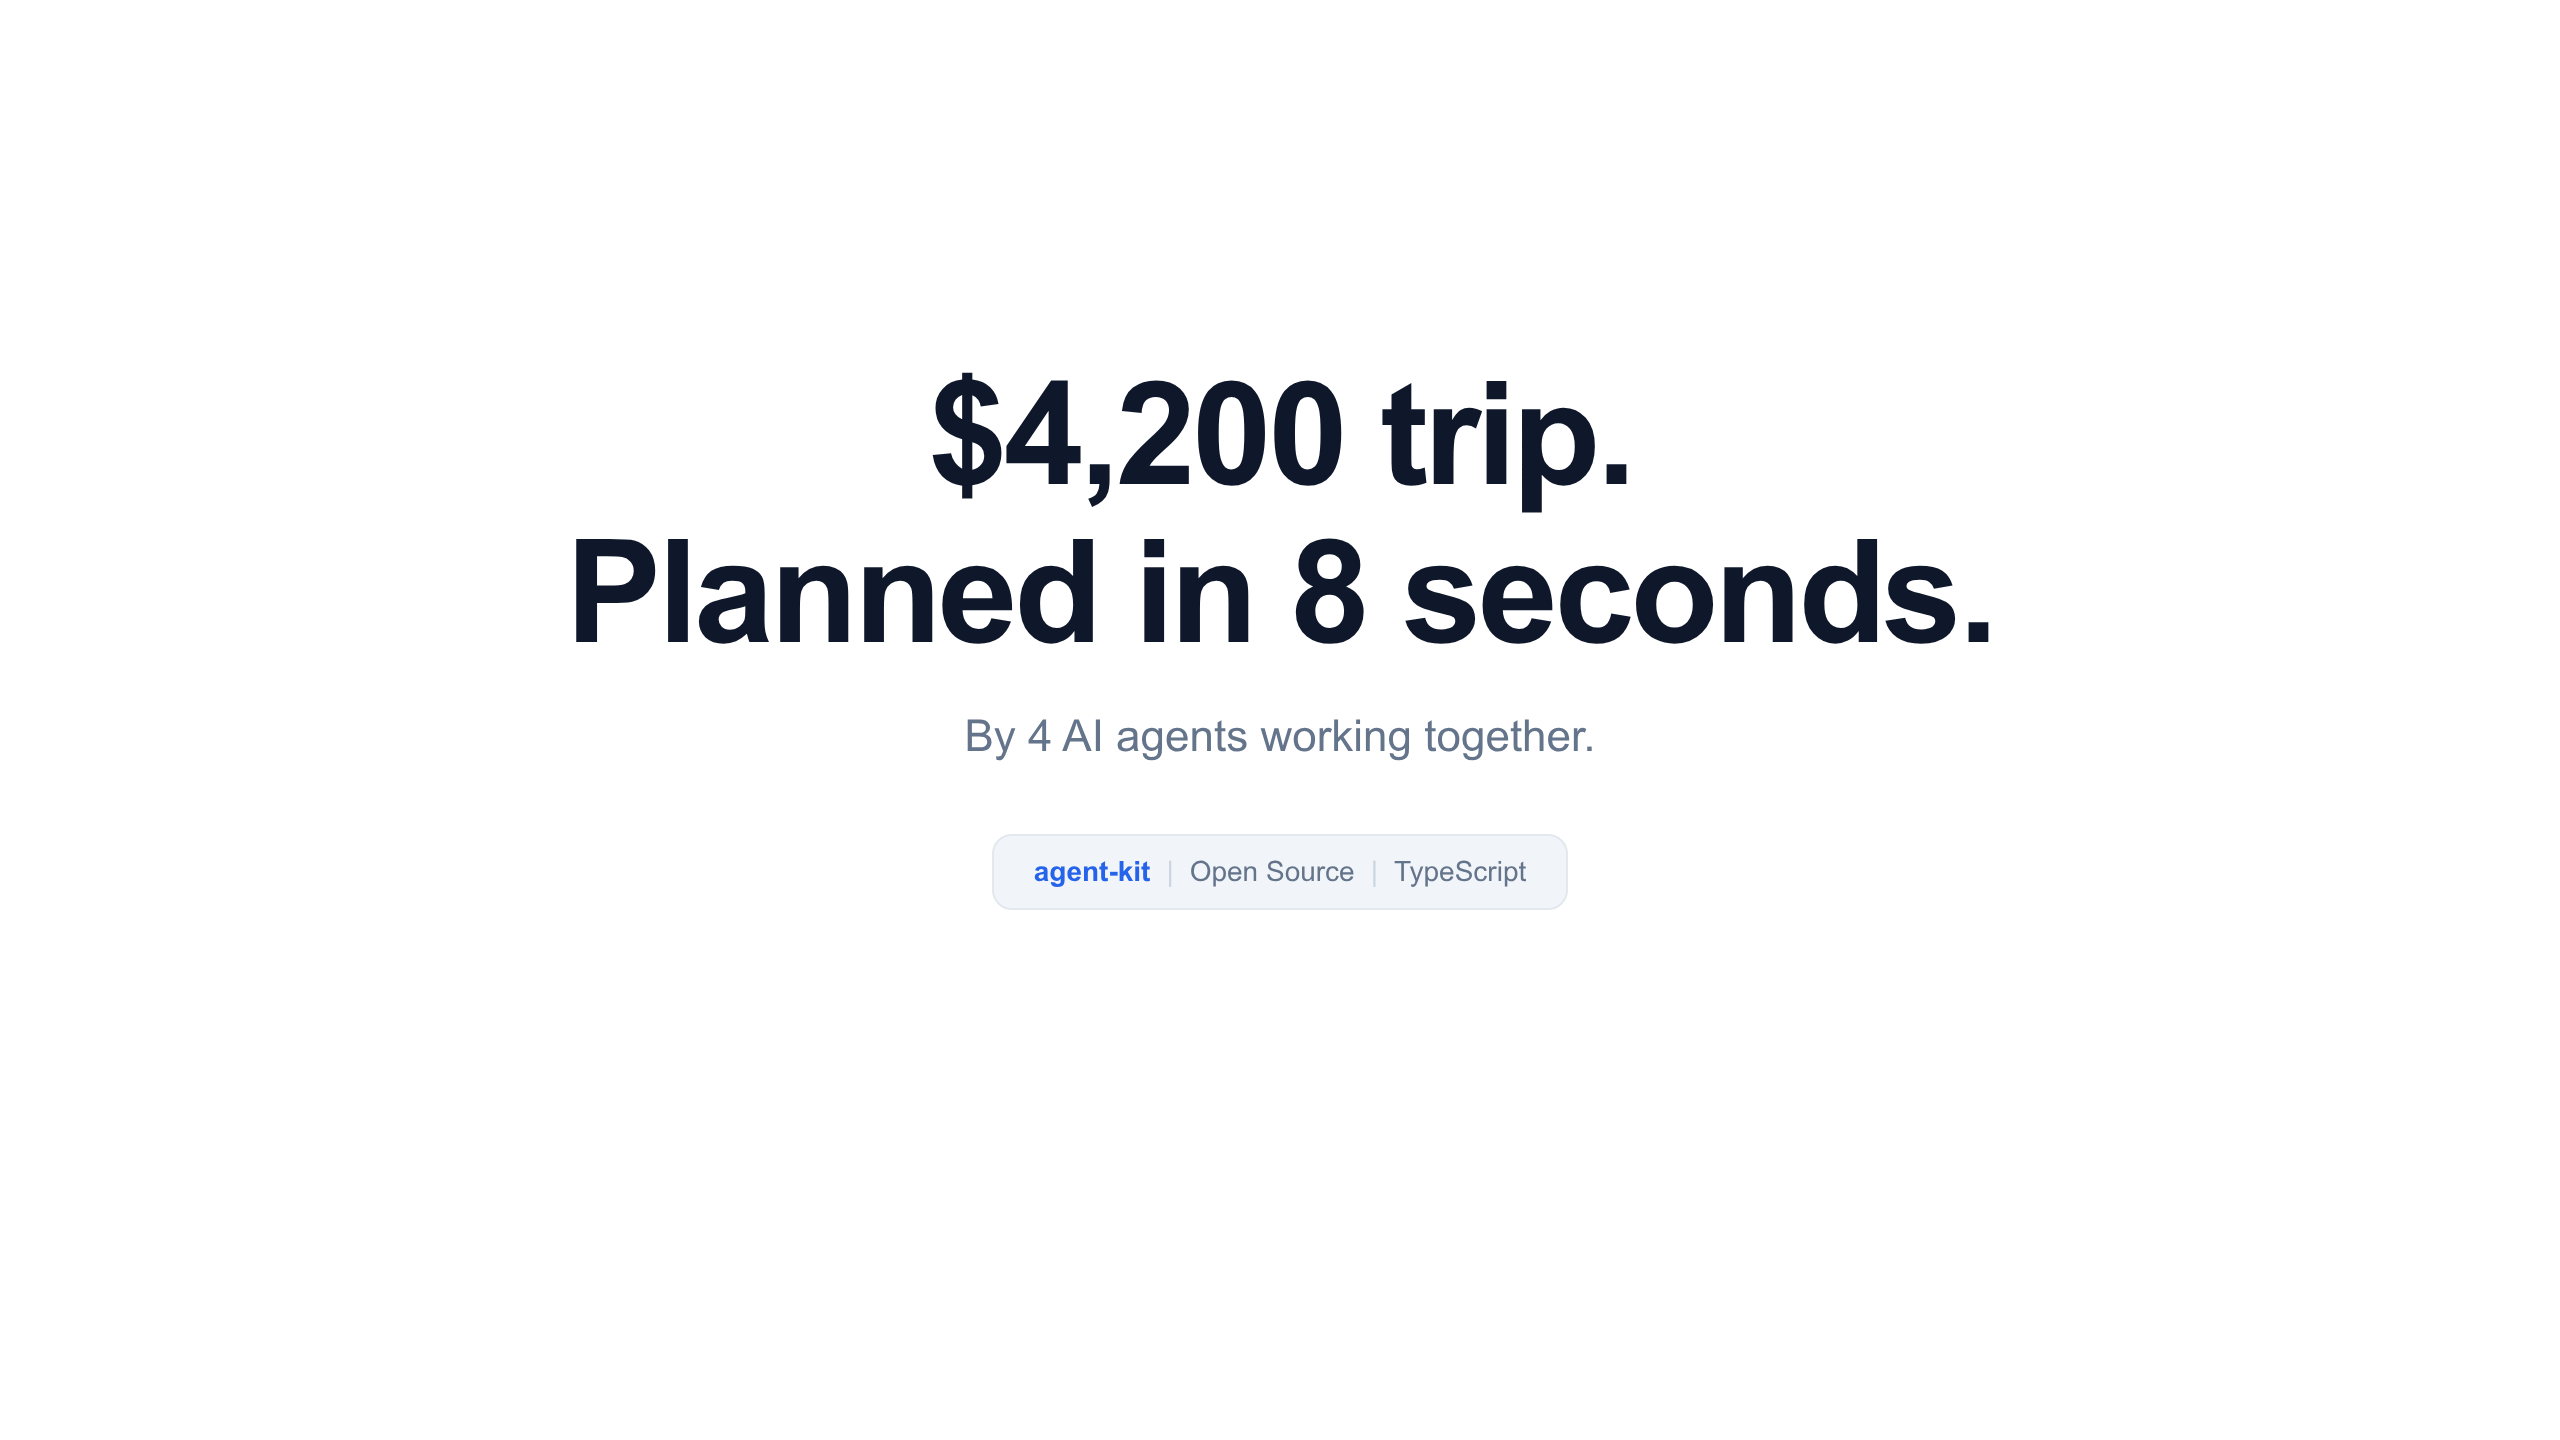
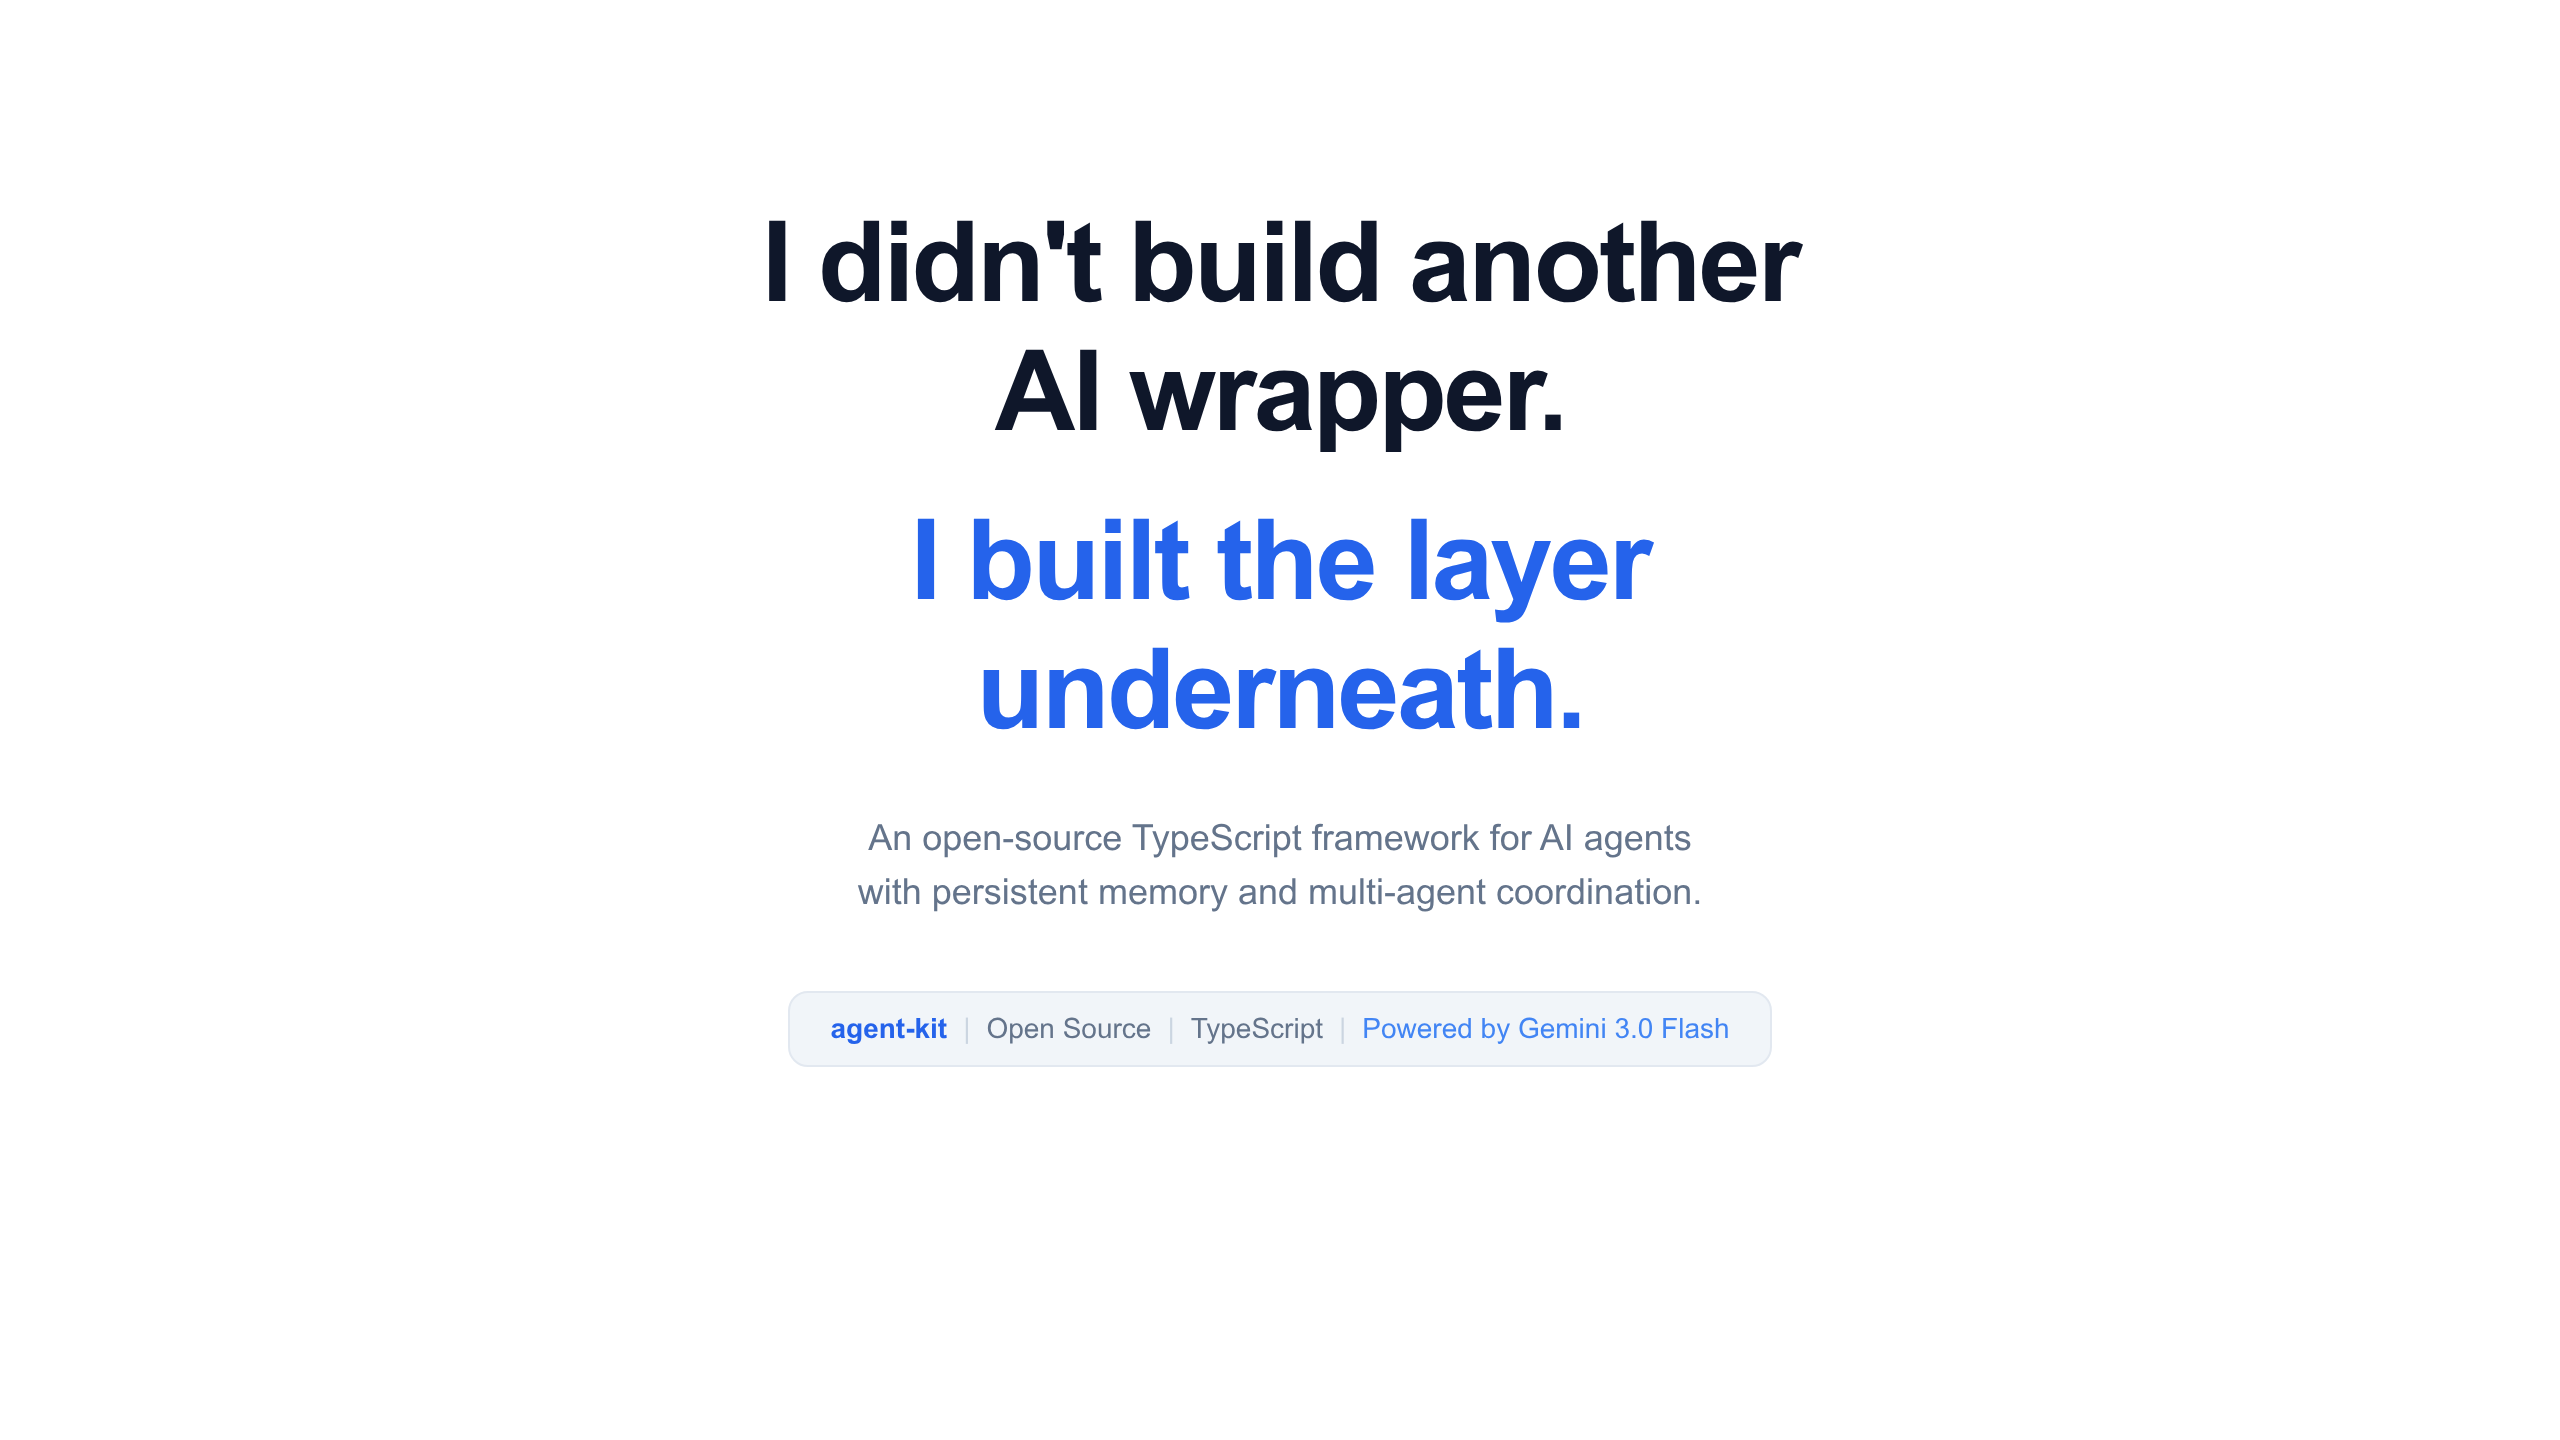
fix: revert to gemini-2.0-flash model ID (3.0 not available yet), brand as 'Gemini Flash'

diff --git a/blog-preview.html b/blog-preview.html
@@ -389,7 +389,7 @@ const team = new Team({
         </div>
         <div style="display: flex; align-items: center; gap: 8px;">
           <div style="width: 20px; height: 20px; background: linear-gradient(135deg, #4285f4, #7c3aed); border-radius: 4px; display: flex; align-items: center; justify-content: center; font-size: 10px; color: white;">✦</div>
-          <span style="font-size: 13px; color: #475569;">Powered by <span style="color: #4285f4; font-weight: 600;">Gemini 3.0 Flash</span></span>
+          <span style="font-size: 13px; color: #475569;">Powered by <span style="color: #4285f4; font-weight: 600;">Gemini Flash</span></span>
         </div>
       </div>
       <div style="margin-top: 16px; background: #ffffff; border-radius: 8px; padding: 12px 16px; border: 1px solid #e2e8f0; font-size: 12px; color: #64748b; text-align: center;">
@@ -399,7 +399,7 @@ const team = new Team({
 
     <p>The playground has a <strong>light theme</strong> (white/gray), opens on the <strong>Travel Planner</strong> by default with a welcome screen showing clickable prompt suggestions, and lets you switch between 4 agents using tabs. Each agent has a "View Code" toggle that shows its actual source — you can see exactly how the tools are wired up.</p>
 
-    <p>The playground runs on <strong style="color: #4285f4;">Google Cloud Run</strong> (scales to zero, wakes up in seconds) with <strong style="color: #4285f4;">Gemini 3.0 Flash</strong> via <strong style="color: #4285f4;">Google AI Studio</strong> powering the AI responses.</p>
+    <p>The playground runs on <strong style="color: #4285f4;">Google Cloud Run</strong> (scales to zero, wakes up in seconds) with <strong style="color: #4285f4;">Gemini Flash</strong> via <strong style="color: #4285f4;">Google AI Studio</strong> powering the AI responses.</p>
 
     <h3>Try This: Plan a Trip in 60 Seconds</h3>
 

diff --git a/demo-overlays/01-intro.html b/demo-overlays/01-intro.html
@@ -4,14 +4,17 @@
 body { background: #ffffff; font-family: -apple-system, BlinkMacSystemFont, 'Segoe UI', sans-serif; display: flex; align-items: center; justify-content: center; min-height: 100vh; }
 </style></head><body>
 <div style="text-align: center; max-width: 800px; padding: 40px;">
-  <div style="font-size: 72px; font-weight: 900; color: #0f172a; line-height: 1.1; margin-bottom: 20px; letter-spacing: -2px;">$4,200 trip.<br>Planned in 8 seconds.</div>
-  <div style="font-size: 22px; color: #64748b; font-weight: 400; margin-bottom: 36px;">By 4 AI agents working together.</div>
+  <div style="font-size: 56px; font-weight: 900; color: #0f172a; line-height: 1.15; margin-bottom: 20px; letter-spacing: -1.5px;">I didn't build another<br>AI wrapper.</div>
+  <div style="font-size: 56px; font-weight: 900; color: #2563eb; line-height: 1.15; margin-bottom: 28px; letter-spacing: -1.5px;">I built the layer<br>underneath.</div>
+  <div style="font-size: 18px; color: #64748b; font-weight: 400; margin-bottom: 36px; line-height: 1.5;">An open-source TypeScript framework for AI agents<br>with persistent memory and multi-agent coordination.</div>
   <div style="display: inline-flex; align-items: center; gap: 8px; background: #f1f5f9; border: 1px solid #e2e8f0; border-radius: 10px; padding: 10px 20px;">
     <span style="font-size: 14px; color: #2563eb; font-weight: 600;">agent-kit</span>
     <span style="font-size: 14px; color: #cbd5e1;">|</span>
     <span style="font-size: 14px; color: #64748b;">Open Source</span>
     <span style="font-size: 14px; color: #cbd5e1;">|</span>
     <span style="font-size: 14px; color: #64748b;">TypeScript</span>
+    <span style="font-size: 14px; color: #cbd5e1;">|</span>
+    <span style="font-size: 14px; color: #4285f4; font-weight: 500;">Powered by Gemini 3.0 Flash</span>
   </div>
 </div>
 </body></html>

diff --git a/demo-overlays/06-outro.html b/demo-overlays/06-outro.html
@@ -24,7 +24,7 @@ body { background: #ffffff; font-family: -apple-system, BlinkMacSystemFont, 'Seg
 
   <div style="margin-top: 32px; display: flex; justify-content: center; gap: 8px; align-items: center;">
     <div style="width: 20px; height: 20px; background: #4285f4; border-radius: 4px; display: flex; align-items: center; justify-content: center; font-size: 11px; color: white; font-weight: 700;">G</div>
-    <span style="font-size: 13px; color: #64748b;">Powered by <span style="color: #4285f4; font-weight: 600;">Gemini 3.0 Flash</span> on <span style="color: #4285f4; font-weight: 600;">Google Cloud Run</span></span>
+    <span style="font-size: 13px; color: #64748b;">Powered by <span style="color: #4285f4; font-weight: 600;">Gemini Flash</span> on <span style="color: #4285f4; font-weight: 600;">Google Cloud Run</span></span>
   </div>
 </div>
 </body></html>

diff --git a/my-agent/agent.ts b/my-agent/agent.ts
@@ -13,7 +13,7 @@ const agent = new Agent({
   name: 'my-agent',
   model: {
     baseURL: 'https://generativelanguage.googleapis.com/v1beta/openai',
-    model: 'gemini-3.0-flash',
+    model: 'gemini-2.0-flash',
     apiKey: process.env.GOOGLE_AI_API_KEY ?? '',
   },
   memory: new Memory({ store: 'sqlite', path: './memory.db' }),

diff --git a/playground/lib/agents.ts b/playground/lib/agents.ts
@@ -20,7 +20,7 @@ import type { AgentType } from './types';
 function createModel(apiKey: string) {
   return new OpenAICompatibleAdapter({
     baseURL: 'https://generativelanguage.googleapis.com/v1beta/openai',
-    model: 'gemini-3.0-flash',
+    model: 'gemini-2.0-flash',
     apiKey,
   });
 }

diff --git a/blog-post.md b/blog-post.md
@@ -413,7 +413,7 @@ I deployed a live playground so you can try it without installing anything:
     </div>
     <div style="display: flex; align-items: center; gap: 8px;">
       <div style="width: 20px; height: 20px; background: linear-gradient(135deg, #4285f4, #7c3aed); border-radius: 4px; display: flex; align-items: center; justify-content: center; font-size: 10px; color: white;">✦</div>
-      <span style="font-size: 13px; color: #475569;">Powered by <span style="color: #4285f4; font-weight: 600;">Gemini 3.0 Flash</span></span>
+      <span style="font-size: 13px; color: #475569;">Powered by <span style="color: #4285f4; font-weight: 600;">Gemini Flash</span></span>
     </div>
   </div>
   <div style="margin-top: 16px; background: #ffffff; border-radius: 8px; padding: 12px 16px; border: 1px solid #e2e8f0; font-size: 12px; color: #64748b; text-align: center;">
@@ -423,7 +423,7 @@ I deployed a live playground so you can try it without installing anything:
 
 The playground has a **light theme** (white/gray), opens on the **Travel Planner** by default with a welcome screen showing clickable prompt suggestions, and lets you switch between 4 agents using tabs. Each agent has a "View Code" toggle that shows its actual source — you can see exactly how the tools are wired up. There's also a "Powered by agent-kit" architecture banner that explains how the framework connects everything.
 
-The playground runs on **Google Cloud Run** (scales to zero, wakes up in seconds) with **Gemini 3.0 Flash** via **Google AI Studio** powering the AI responses.
+The playground runs on **Google Cloud Run** (scales to zero, wakes up in seconds) with **Gemini Flash** via **Google AI Studio** powering the AI responses.
 
 ### Try This: Plan a Trip in 60 Seconds
 

diff --git a/blog-substack.md b/blog-substack.md
@@ -128,7 +128,7 @@ I deployed a live playground so you can try it without installing anything:
 
 **[Try the Live Playground ->](https://www.abhi-agent-kit.space)**
 
-Hosted on **Google Cloud Run**. Powered by **Gemini 3.0 Flash** via **Google AI Studio**.
+Hosted on **Google Cloud Run**. Powered by **Gemini Flash** via **Google AI Studio**.
 
 Chat with 4 different AI agents. Close the tab and come back — they remember you.
 

diff --git a/README.md b/README.md
@@ -166,7 +166,7 @@ const agent = new Agent({
 
 **[www.abhi-agent-kit.space](https://www.abhi-agent-kit.space)**
 
-4 pre-built agents with real-time tool execution, persistent memory, and live event streaming. Powered by Gemini 3.0 Flash on Google Cloud Run.
+4 pre-built agents with real-time tool execution, persistent memory, and live event streaming. Powered by Gemini Flash on Google Cloud Run.
 
 ---
 
